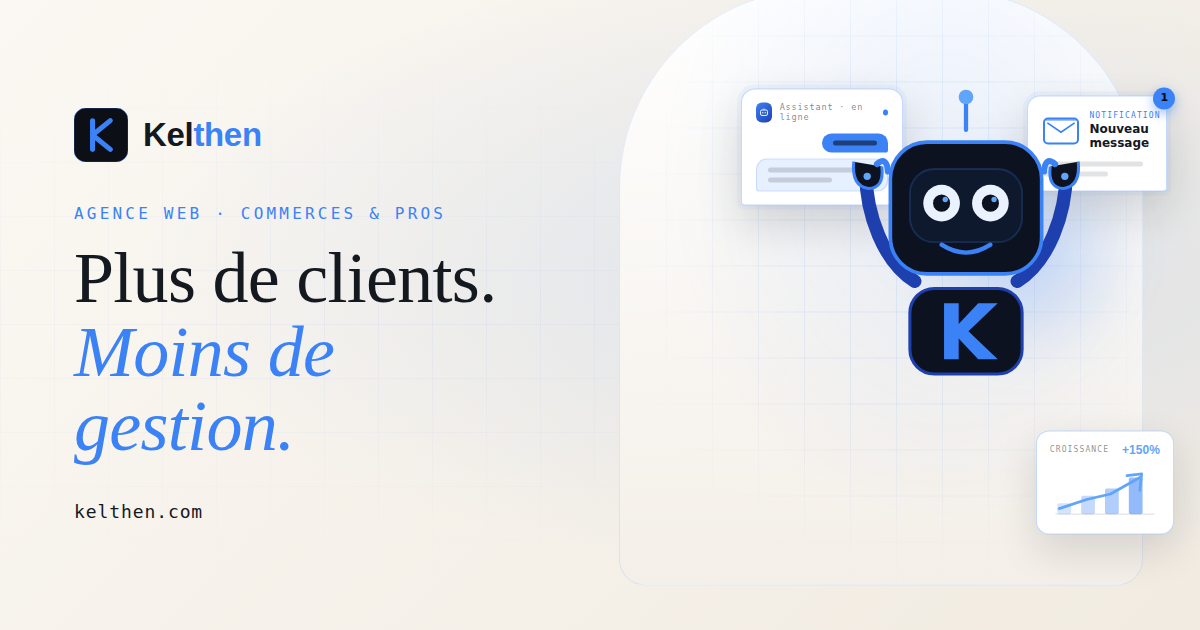
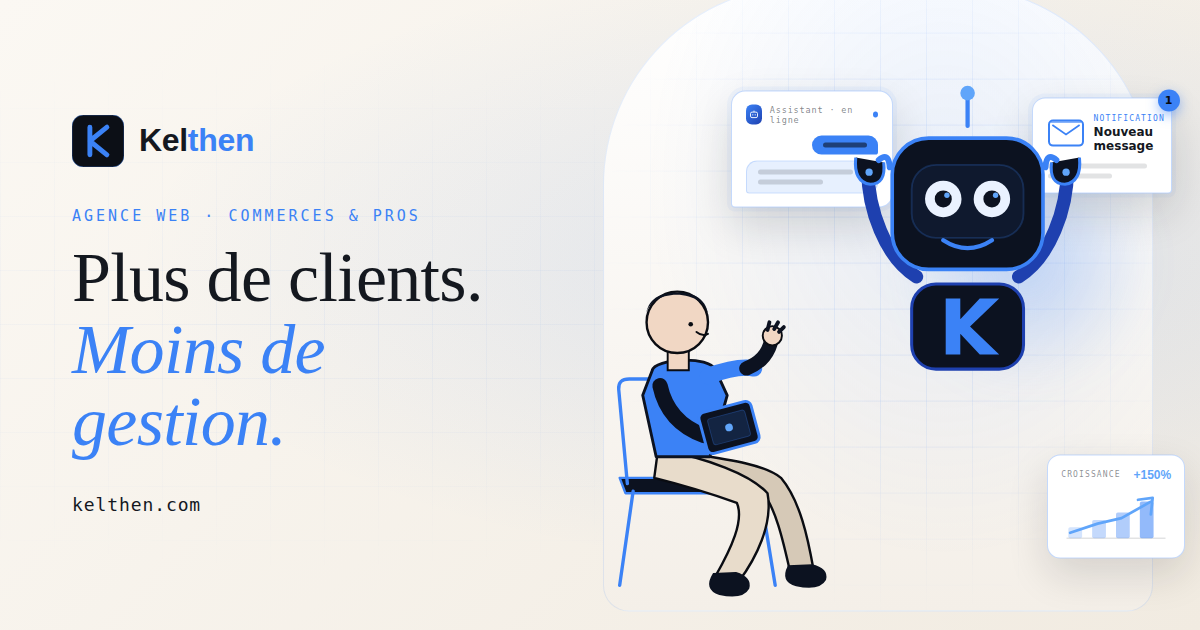
og-image avec la personne + hero mobile agrandi
- og-image : le client (personne assise) est de retour dans la scène,
  la mascotte reste mise en avant, toutes les cartes visibles.
- Hero mobile : la scène est agrandie (échelle relevée) tout en restant
  contenue à l'écran, sans débordement.

diff --git a/assets/style.css b/assets/style.css
@@ -2987,21 +2987,25 @@
       /* Scale the whole scene down uniformly so cards never spill or get cut */
       body.home-light .hero .hero-visual {
         order: 1;
-        height: 340px;
+        height: 420px;
         overflow: hidden;
       }
       body.home-light .hero .hero-visual .kb-root {
         width: 480px;
         max-width: none;
-        transform: scale(0.68);
+        transform: scale(0.84);
         transform-origin: top center;
       }
       body.home-light .hero .hero-desc { margin: 0 auto; }
       body.home-light .hero .hero-actions { justify-content: center; }
     }
     @media (max-width: 440px) {
-      body.home-light .hero .hero-visual { height: 300px; }
-      body.home-light .hero .hero-visual .kb-root { transform: scale(0.6); }
+      body.home-light .hero .hero-visual { height: 372px; }
+      body.home-light .hero .hero-visual .kb-root { transform: scale(0.74); }
+    }
+    @media (max-width: 360px) {
+      body.home-light .hero .hero-visual { height: 340px; }
+      body.home-light .hero .hero-visual .kb-root { transform: scale(0.67); }
     }
 
     /* ─── Cartes secteur cliquables ─── */
